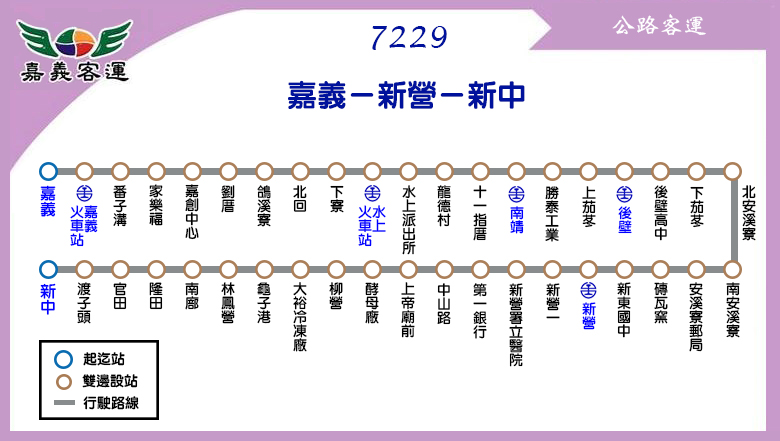
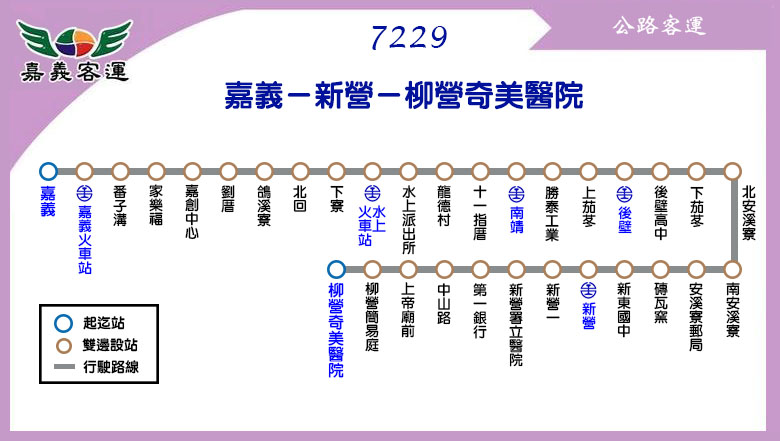
更新7229路線圖及時刻表：縮線至柳營奇美醫院

Changed region(s): [[0.0308, 0.4422, 0.4923, 0.9728], [0.2769, 0.1769, 0.7692, 0.2653]]

diff --git a/route/fare_and_time/highway_bus_7229.js b/route/fare_and_time/highway_bus_7229.js
@@ -1,4 +1,4 @@
-highway_bus_7229_interval_name = ["嘉義","劉厝","下寮","水上","南靖","上茄苳","後壁","南安<br />溪寮","新營","柳營","龜子港","林鳳營","南廍","隆田","官田","新中"];
+highway_bus_7229_interval_name = ["嘉義","劉厝","下寮","水上","南靖","上茄苳","後壁","南安<br />溪寮","新營","柳營<br />奇美醫院"];
 highway_bus_7229_interval_stop = [
 ["嘉義","嘉義火車站","番子溝","家樂福"], // 嘉義
 ["嘉創中心","劉厝"], // 劉厝
@@ -9,38 +9,25 @@ highway_bus_7229_interval_stop = [
 ["後壁","後壁高中","下茄苳"], // 後壁
 ["北安溪寮","南安溪寮","安溪寮郵局","磚瓦窯"], // 南安溪寮
 ["新東國中","新營","新營一","新營署立醫院","第一銀行","中山路","上帝廟前"], // 新營
-["酵母廠","柳營"], // 柳營
-["大裕冷凍廠","龜子港"], // 龜子港
-["林鳳營"], // 林鳳營
-["南廍"], // 南廍
-["隆田"], // 隆田
-["官田"], // 官田
-["渡子頭","新中"] // 新中
+["柳營簡易庭","柳營奇美醫院"] // 柳營奇美醫院
 ];
-highway_bus_7229_stop_time_consume = [];
 highway_bus_7229_fare = [
-[24,21,21,21,26,34,42,58,67,78,85,88,97,102,109,117],
-[24,24,21,21,21,27,35,51,61,71,78,81,90,95,102,110],
-[24,24,24,21,21,23,31,47,56,67,74,77,86,91,98,106],
-[24,24,24,24,21,21,23,39,48,59,66,69,78,83,90,98],
-[29,24,24,24,24,21,21,32,42,52,59,62,71,77,83,91],
-[39,31,26,24,24,24,21,24,34,44,51,54,63,69,75,83],
-[48,40,35,26,24,24,24,21,26,36,43,46,55,61,67,75],
-[66,58,53,44,36,27,24,24,21,21,27,30,39,45,51,59],
-[77,69,64,55,47,38,29,24,24,21,21,21,30,35,42,50],
-[89,81,76,67,59,50,41,24,24,24,21,21,21,25,31,39],
-[97,89,84,75,67,58,49,31,24,24,24,21,21,21,25,33],
-[100,92,87,78,70,61,52,34,24,24,24,24,21,21,22,30],
-[111,103,98,89,81,72,63,45,34,24,24,24,24,21,21,21],
-[117,109,104,95,87,78,69,51,40,28,24,24,24,24,21,21],
-[125,117,112,103,95,86,77,59,48,36,28,25,24,24,24,21],
-[134,126,121,112,104,95,86,68,57,45,37,34,24,24,24,24]
+[24,21,21,21,27,35,43,59,69,81],
+[24,24,21,21,21,27,35,51,61,73],
+[24,24,24,21,21,23,31,47,56,69],
+[24,24,24,24,21,21,23,39,48,61],
+[31,24,24,24,24,21,21,32,42,54],
+[40,31,26,24,24,24,21,24,34,46],
+[49,40,35,26,24,24,24,21,26,38],
+[67,58,53,44,36,27,24,24,21,22],
+[78,69,64,55,47,38,29,24,24,21],
+[92,83,78,69,61,52,43,25,24,24]
 ];
 // format = [time at the start stop] or
 // [time, other] or
 // [time, start_stop, end_stop, other]
-highway_bus_7229_main_stop_name = ["嘉義","嘉義<br />火車站","水上<br />火車站","南靖","後壁","新營","柳營","隆田","新中"];
-highway_bus_7229_main_stop_time_consume = [0,1,17,23,30,45,55,66,73];
-highway_bus_7229_important_stop = [0, 1, 5]; // 新營, 鹽水, 朴子
-highway_bus_7229_time_go = [["06:50"],["10:20"],["14:10"]];
-highway_bus_7229_time_return = [["08:20"],["12:00"],["15:50"]];
+highway_bus_7229_main_stop_name = ["嘉義","嘉義<br />火車站","水上<br />火車站","南靖","後壁","新營","柳營<br />奇美醫院"];
+highway_bus_7229_main_stop_time_consume = [0,1,17,23,30,45,55];
+highway_bus_7229_important_stop = [0, 1, 5, 6]; // 嘉義, 嘉義火車站, 新營, 柳營奇美醫院
+highway_bus_7229_time_go = [["06:50"],["10:00"],["15:00"]];
+highway_bus_7229_time_return = [["07:50"],["11:00"],["16:00"]];

diff --git a/highway_bus/highway_bus_7229.html b/highway_bus/highway_bus_7229.html
@@ -7,7 +7,7 @@
 	route_name_en = 'No.7229';
 	route_file_name = 'highway_bus_7229';
 	route_type = 'highway_bus';
-	route_interval = ['嘉義','新營','新中'];
+	route_interval = ['嘉義','新營','柳營奇美醫院'];
 </script>
 <script src="../tools/web_model.js"></script> 
 <script type="text/javascript">
@@ -20,10 +20,10 @@
 <body>
 <script type="text/javascript">
 	block_header();
-	block_route_map('目前「【7229】嘉義-新中」營運路線仍維持正常營運，因【7229】停駛案尚在審核、評估中，後續相關異動情形，將於核定後請嘉義客運公司另行公告。');
+	block_route_map(null);
 	block_route_info(route_interval,'嘉義客運','','里程計費','http://www.taiwanbus.tw/information.aspx?Line=1749&Lang=" target="_blank');
 	block_fare(10, null);
-	block_time_schedule('嘉義','新中','');
+	block_time_schedule('嘉義火車站','柳營奇美醫院','');
 	block_transfer(transfer_houbi_railway_station + transfer_hsinyin);
 	block_copyright();
 </script>

diff --git a/overview.html b/overview.html
@@ -291,8 +291,7 @@ function get_transfer_info(bus_stop){
 		+ get_button_string('orange_5', '橘5')
 		+ get_button_string('orange_10', '橘10')
 		+ get_button_string('yellow_1', '黃1')
-		+ get_button_string('tour_bus_66', '66')
-		+ get_button_string('highway_bus_7229', '7229');
+		+ get_button_string('tour_bus_66', '66');
 		break;
 	case '下營':
 		div_string += get_button_string('yellow', '黃幹線')
@@ -305,8 +304,7 @@ function get_transfer_info(bus_stop){
 		+ get_button_string('yellow_1', '黃1')
 		+ get_button_string('yellow_2', '黃2')
 		+ get_button_string('yellow_4', '黃4')
-		+ get_button_string('yellow_20', '黃20')
-		+ get_button_string('highway_bus_7229', '7229');
+		+ get_button_string('yellow_20', '黃20');
 		break;
 	case '柳營':
 		div_string += get_button_string('yellow', '黃幹線')

diff --git a/tools/route_infor.js b/tools/route_infor.js
@@ -128,7 +128,7 @@ highway_bus_7207_route = '嘉義 ─ 竹子腳 ─ 鹽水';
 highway_bus_7208_route = '嘉義 ─ 重寮 ─ 鹽水';
 highway_bus_7210_route = '嘉義 ─ 內角 ─ 白河';
 highway_bus_7214_route = '嘉義 ─ 內角 ─ 白河 ─ 關子嶺';
-highway_bus_7229_route = '嘉義 ─ 後壁 ─ 新營 ─ 新中';
+highway_bus_7229_route = '嘉義 ─ 後壁 ─ 新營 ─ 柳營奇美醫院';
 highway_bus_7407_route = '新營 ─ 鹽水 ─ 朴子';
 highway_bus_7408_route = '新營 ─ 鹽水 ─ 南鯤鯓 ─ 好美里';
 highway_bus_7410_route = '新營 ─ 鹽水 ─ 布袋港';
